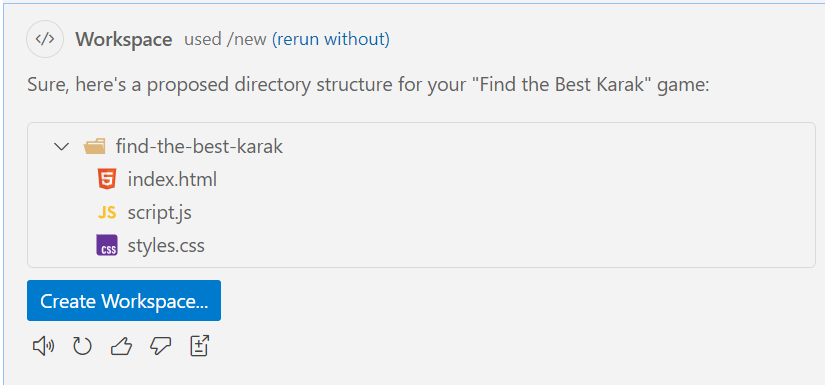
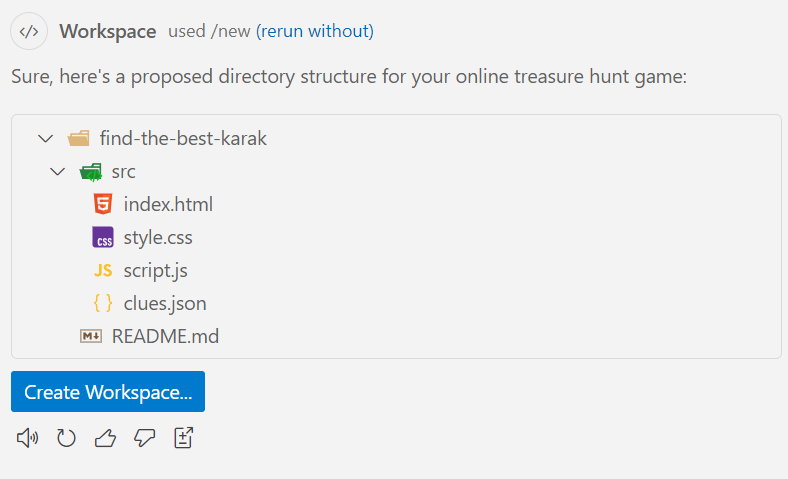
Update README.md to reference clues.json for game clues and answers

Changed region(s): [[0.0, 0.0312, 0.8832, 0.9351], [0.0, 0.0, 0.0305, 0.0312]]

diff --git a/README.md b/README.md
@@ -49,11 +49,11 @@
     <details>
         <summary>Here is a good prompt that you can use </summary>
 
-        I'm creating a simple online treasure hunt game called "Find the Best Karak" using HTML and JavaScript. 
-        The game will provide clues based on touristic places in Qatar, and the player will enter the name of the location to proceed.
-        Please help me generate the basic HTML, JavaScript and CSS files needed for this game.
-        The HTML file will include a heading, a paragraph to display clues, an input field for the player to enter the location, and a submit button. 
-        The JavaScript file will contain the logic for generating clues and checking the player's input.
+       I'm creating a simple online treasure hunt game called "Find the Best Karak" using HTML and JavaScript. 
+       The game will provide clues based on touristic places in Qatar, and the player will enter the name of the location to proceed. You can find the clues and answers in clues.json inside the src folder.
+       Please help me generate the basic HTML, JavaScript and CSS files needed for this game.
+       The HTML file will include a heading, a paragraph to display clues, an input field for the player to enter the location, and a submit button. 
+       The JavaScript file will contain the logic for fetching the clues from the clues.json and present it on the html.
 
    </details>
 
